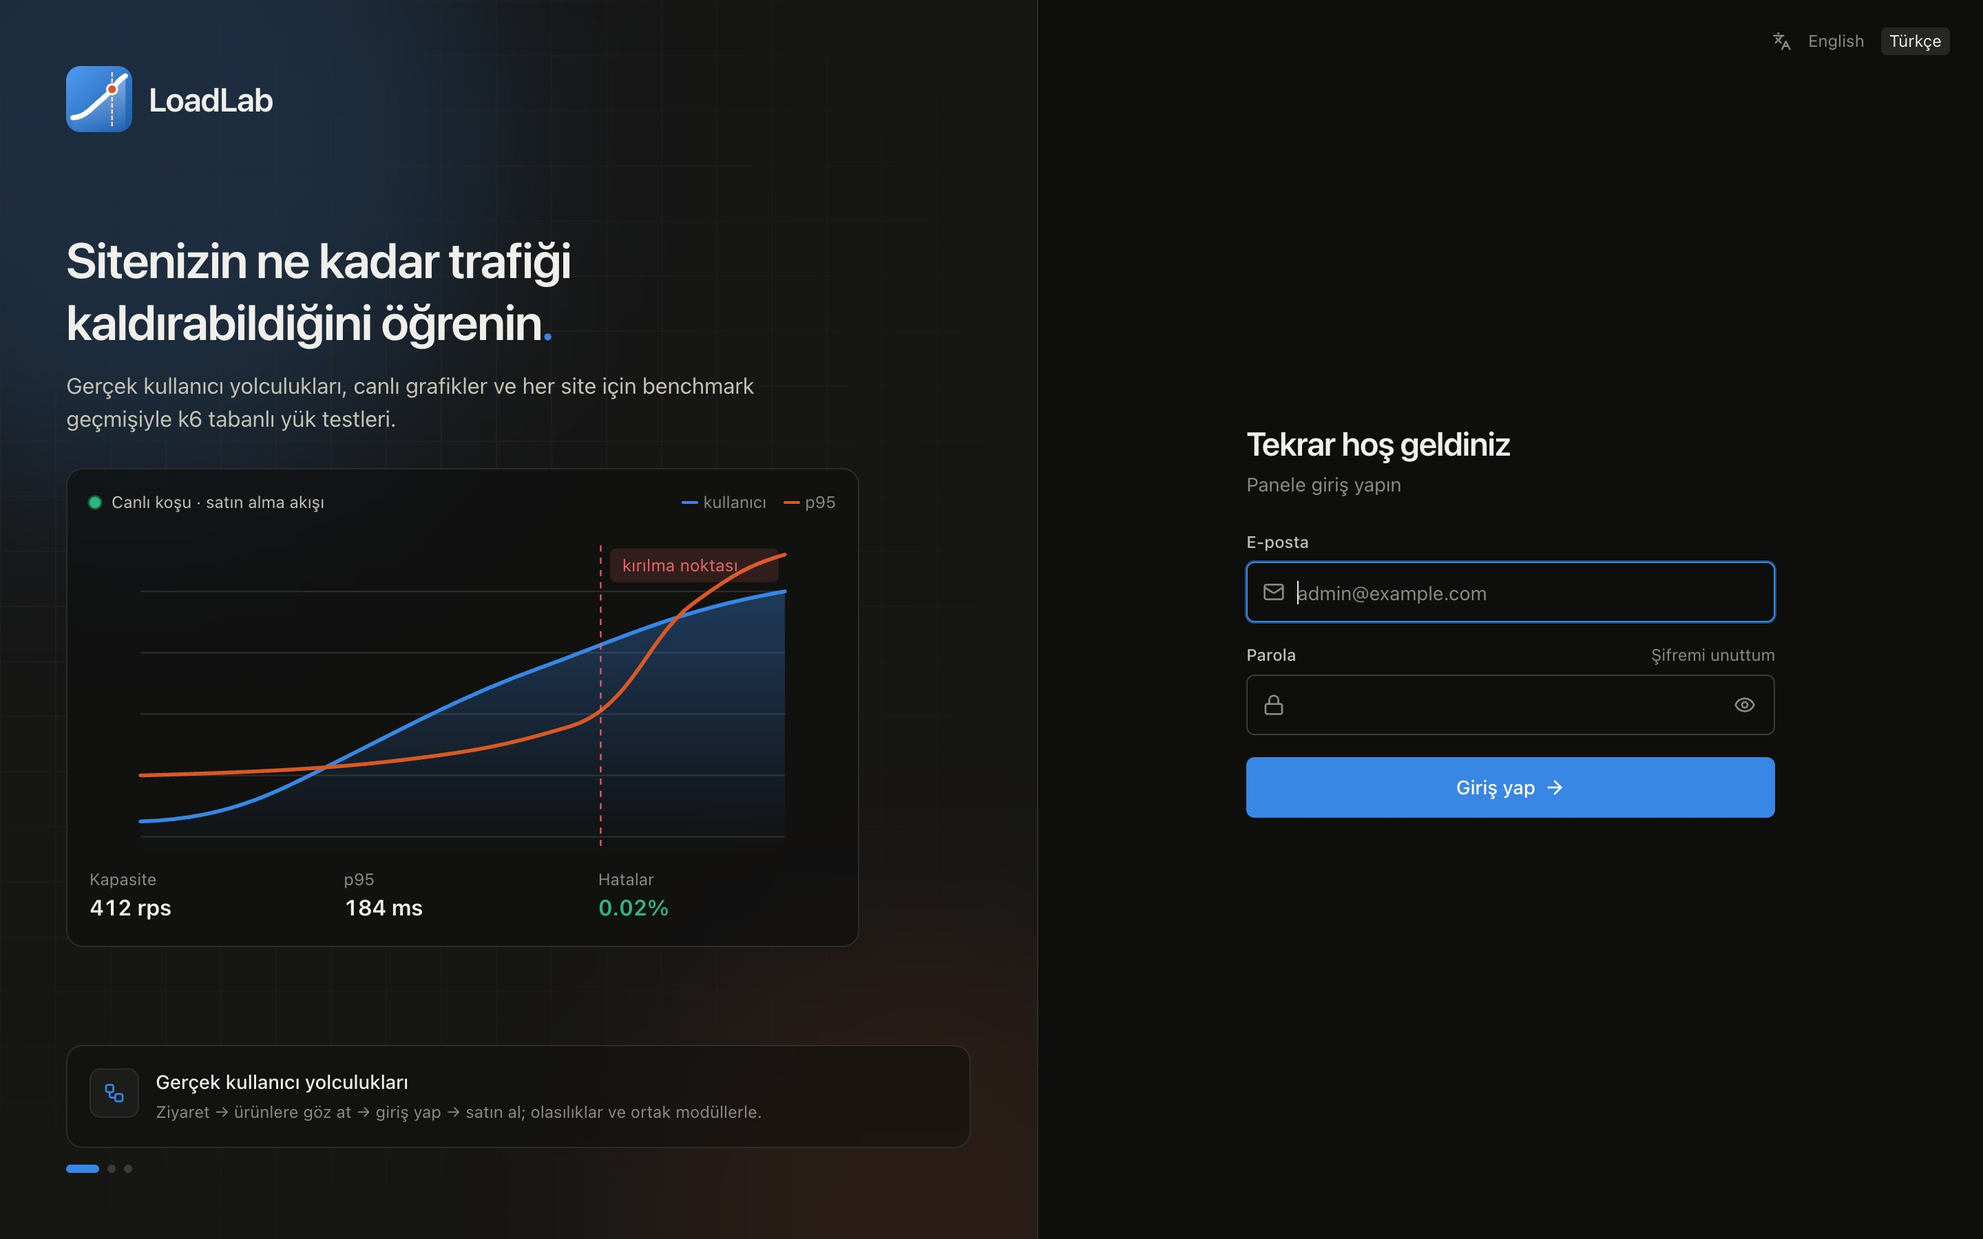
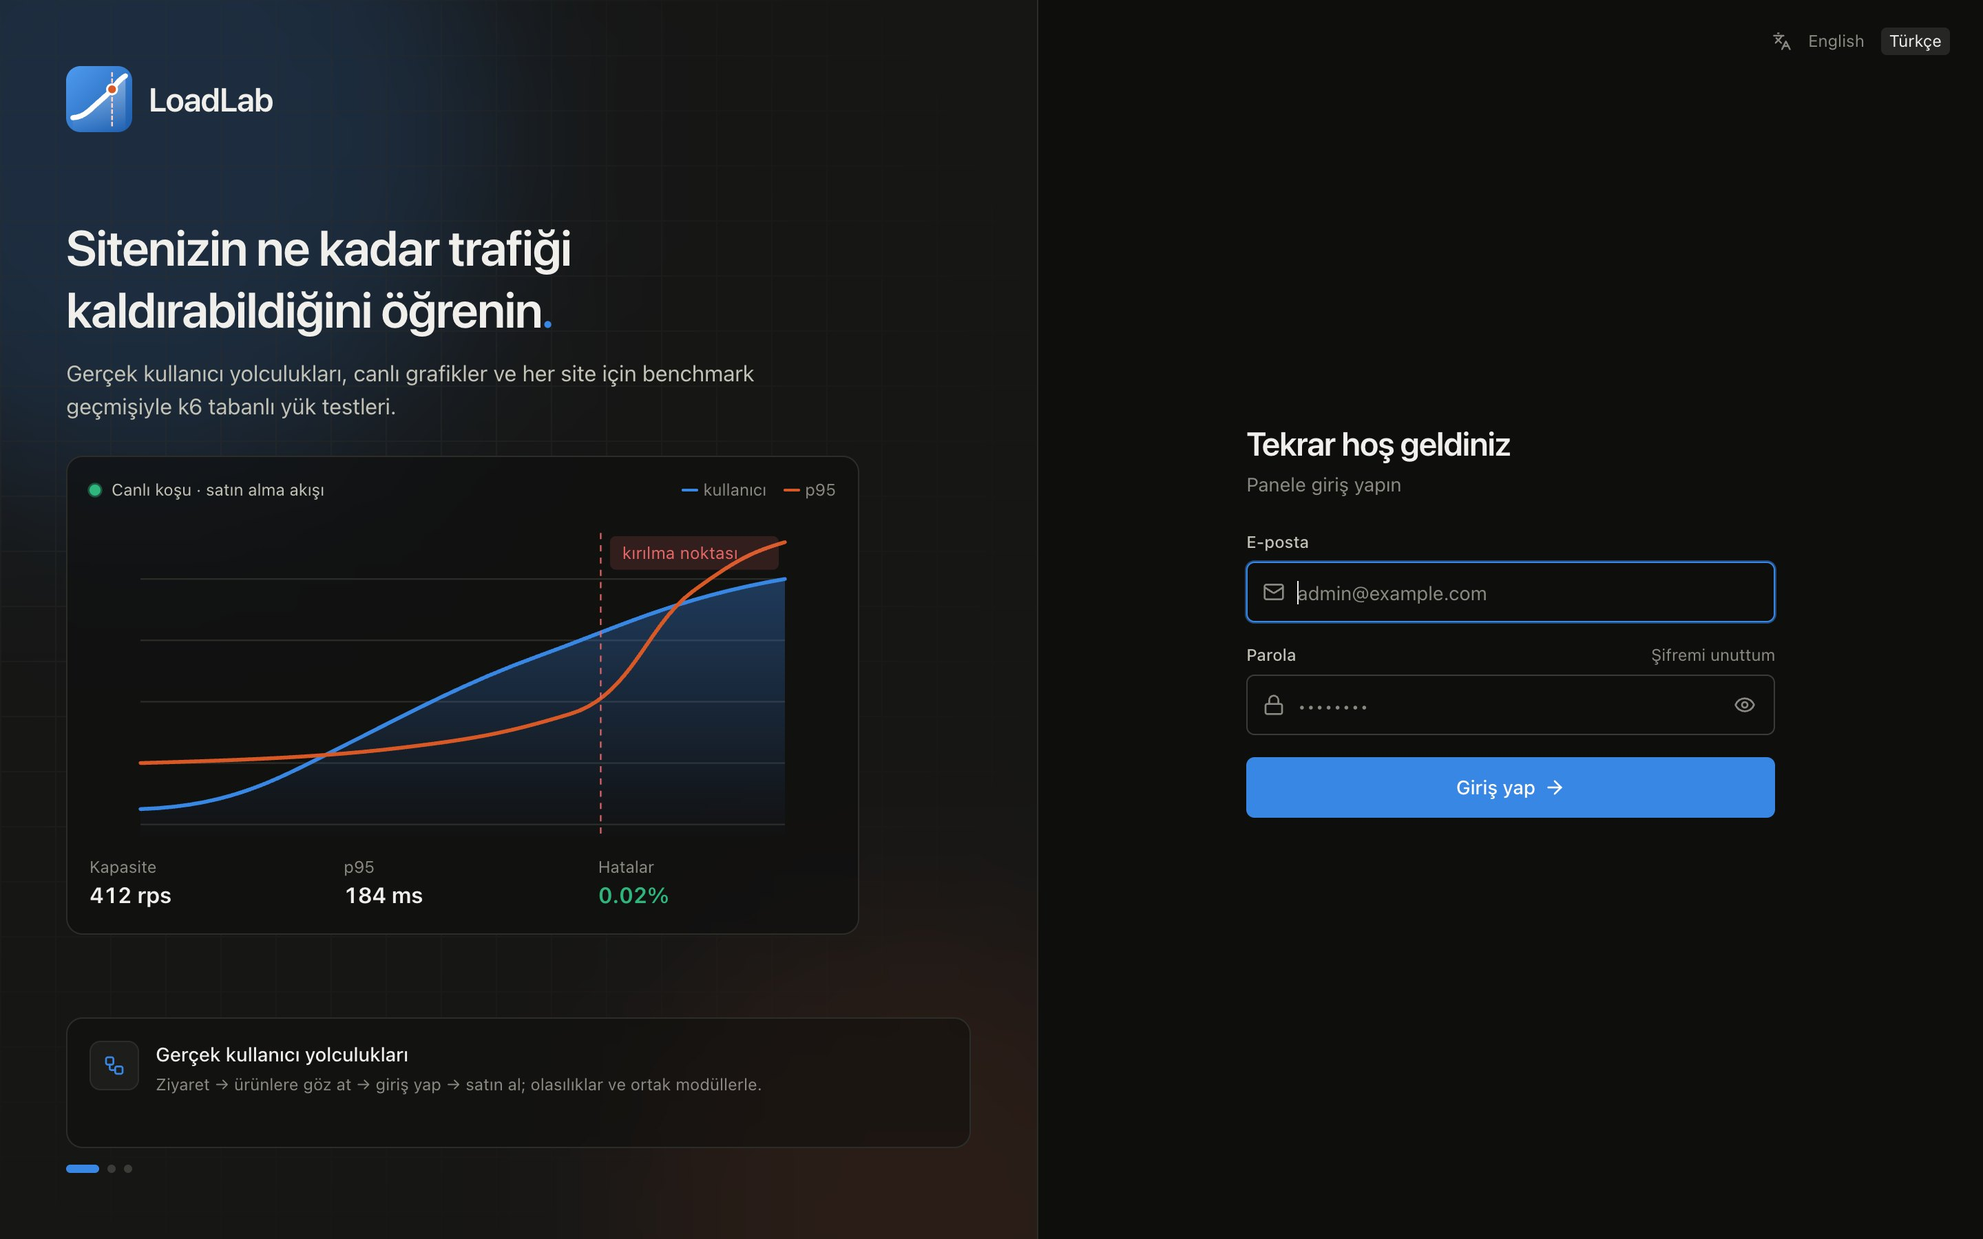
Present MCP as open to any AI agent, add password placeholder
- README, README.tr, login and settings now describe the MCP server as
  working with any MCP client (Claude, Gemini, ChatGPT, Cursor, ...),
  not only Claude.
- Settings shows copy-ready setup for Claude Code, Gemini CLI, generic
  JSON clients and URL-only clients (?token=).
- Password fields show a dotted placeholder; the active-session list
  scrolls instead of growing the page.
- Refresh login and settings screenshots.

diff --git a/web/src/pages/Settings.tsx b/web/src/pages/Settings.tsx
@@ -3,7 +3,7 @@ import { Copy, KeyRound, Plus, Trash2 } from 'lucide-react';
 import type { Me } from '../App';
 import { api, errorText } from '../lib/api';
 import { fmtAgo } from '../lib/format';
-import { t } from '../lib/i18n';
+import { msg, t } from '../lib/i18n';
 import { Alert, Badge, Button, Card, Field, Input, PageHeader, useLoad, useToast } from '../components/ui';
 import { AccountSecurity, UsersCard } from '../components/Security';
 
@@ -22,6 +22,43 @@ function CodeBlock({ code }: { code: string }) {
       >
         <Copy className="size-3.5" />
       </button>
+    </div>
+  );
+}
+
+const CLIENTS = [
+  { key: 'claude', label: 'Claude Code' },
+  { key: 'gemini', label: 'Gemini CLI' },
+  { key: 'json', label: msg('Other clients (JSON)') },
+  { key: 'url', label: msg('URL only') },
+] as const;
+
+/** Copy-ready setup for common MCP clients. */
+function ClientSetup({ mcpUrl, tok }: { mcpUrl: string; tok: string }) {
+  const [client, setClient] = useState<(typeof CLIENTS)[number]['key']>('claude');
+  const header = `Authorization: Bearer ${tok}`;
+  const code = {
+    claude: `claude mcp add --transport http loadlab ${mcpUrl} --header "${header}"`,
+    gemini: `gemini mcp add --transport http loadlab ${mcpUrl} --header "${header}"`,
+    json: JSON.stringify({ mcpServers: { loadlab: { type: 'http', url: mcpUrl, headers: { Authorization: `Bearer ${tok}` } } } }, null, 2),
+    url: `${mcpUrl}?token=${tok}`,
+  }[client];
+  return (
+    <div>
+      <div className="mb-2 flex flex-wrap gap-1">
+        {CLIENTS.map((c) => (
+          <button
+            key={c.key}
+            onClick={() => setClient(c.key)}
+            className={`rounded-md px-2.5 py-1 text-xs transition-colors ${client === c.key ? 'bg-surface-3 text-ink' : 'text-ink-3 hover:bg-surface-2 hover:text-ink'}`}
+          >
+            {t(c.label)}
+          </button>
+        ))}
+      </div>
+      <CodeBlock code={code} />
+      {client === 'json' && <p className="mt-1.5 text-xs text-ink-3">{t('For Cursor, VS Code, Windsurf and most other clients. Some use “serverUrl” or “httpUrl” instead of “url”.')}</p>}
+      {client === 'url' && <p className="mt-1.5 text-xs text-warn">{t('For clients that cannot send headers (e.g. ChatGPT connectors). The key is part of the URL, so keep it private.')}</p>}
     </div>
   );
 }
@@ -47,14 +84,14 @@ export default function SettingsPage({ me, onChange }: { me: Me; onChange: () =>
 
   return (
     <>
-      <PageHeader title={t('Settings & MCP')} subtitle={t('Account security, dashboard users and the Claude (MCP) connection')} />
+      <PageHeader title={t('Settings & MCP')} subtitle={t('Account security, dashboard users and the MCP connection for AI agents')} />
       <div className="grid gap-4 xl:grid-cols-2">
         <AccountSecurity me={me} onChange={onChange} />
         <UsersCard me={me} />
         <Card title={<span className="inline-flex items-center gap-2"><KeyRound className="size-4 text-accent" /> {t('API keys')}</span>}>
           <div className="space-y-4">
             <div className="flex gap-2">
-              <Input value={name} onChange={(e) => setName(e.target.value)} placeholder={t('Key name (e.g. Claude Desktop)')} />
+              <Input value={name} onChange={(e) => setName(e.target.value)} placeholder={t('Key name (e.g. Cursor, Gemini CLI)')} />
               <Button variant="primary" icon={<Plus className="size-4" />} onClick={create}>
                 {t('Create')}
               </Button>
@@ -94,16 +131,8 @@ export default function SettingsPage({ me, onChange }: { me: Me; onChange: () =>
             <Field label={t('Server URL (Streamable HTTP)')}>
               <CodeBlock code={mcpUrl} />
             </Field>
-            <div>
-              <div className="mb-1 text-xs font-medium text-ink-2">Claude Code</div>
-              <CodeBlock code={`claude mcp add --transport http loadlab ${mcpUrl} --header "Authorization: Bearer ${tok}"`} />
-            </div>
-            <div>
-              <div className="mb-1 text-xs font-medium text-ink-2">{t('Claude Desktop / other clients (JSON)')}</div>
-              <CodeBlock
-                code={JSON.stringify({ mcpServers: { loadlab: { type: 'http', url: mcpUrl, headers: { Authorization: `Bearer ${tok}` } } } }, null, 2)}
-              />
-            </div>
+            <p className="text-xs text-ink-3">{t('Works with any MCP client that supports Streamable HTTP: Claude, Gemini, ChatGPT, Cursor, VS Code, Windsurf and others.')}</p>
+            <ClientSetup mcpUrl={mcpUrl} tok={tok} />
             <div className="flex items-center gap-2 text-xs text-ink-3">
               {t('Starting tests over MCP:')}
               {me.mcpAllowRun ? <Badge tone="warn">{t('on (MCP_ALLOW_RUN=true)')}</Badge> : <Badge tone="good">{t('off — drafts are started from the dashboard')}</Badge>}

diff --git a/web/src/locales/tr.ts b/web/src/locales/tr.ts
@@ -258,9 +258,7 @@ export const tr: Record<string, string> = {
   'Error': 'Hata',
   'Copy': 'Kopyala',
   'Copied': 'Kopyalandı',
-  'Account security, dashboard users and the Claude (MCP) connection': 'Hesap güvenliği, panel kullanıcıları ve Claude (MCP) bağlantısı',
   'API keys': 'API anahtarları',
-  'Key name (e.g. Claude Desktop)': 'Anahtar adı (örn. Claude Desktop)',
   'Create': 'Oluştur',
   'Key created — it is shown only once': 'Anahtar oluşturuldu — yalnızca bir kez gösterilir',
   'last used {ago}': 'son kullanım {ago}',
@@ -269,7 +267,6 @@ export const tr: Record<string, string> = {
   'No keys yet.': 'Henüz anahtar yok.',
   'MCP connection': 'MCP bağlantısı',
   'Server URL (Streamable HTTP)': 'Sunucu URL’si (Streamable HTTP)',
-  'Claude Desktop / other clients (JSON)': 'Claude Desktop / diğer istemciler (JSON)',
   'Starting tests over MCP:': 'MCP üzerinden test başlatma:',
   'on (MCP_ALLOW_RUN=true)': 'açık (MCP_ALLOW_RUN=true)',
   'off — drafts are started from the dashboard': 'kapalı — taslaklar panelden başlatılır',
@@ -338,7 +335,6 @@ export const tr: Record<string, string> = {
   'All sites': 'Tüm siteler',
   'All statuses': 'Tüm durumlar',
   'No workflows': 'Workflow yok',
-  'Start from a template, import a HAR file, or ask Claude over MCP to “draft a checkout flow for my site”.': 'Bir şablondan başlayın, HAR dosyası içe aktarın ya da MCP üzerinden Claude’dan “sitem için bir satın alma akışı taslağı hazırla” isteyin.',
   'Version': 'Sürüm',
   'Updated': 'Güncellendi',
   'Shared module': 'Ortak modül',
@@ -354,8 +350,6 @@ export const tr: Record<string, string> = {
   'Visit → browse products → sign in → buy, with probabilities and shared modules.': 'Ziyaret → ürünlere göz at → giriş yap → satın al; olasılıklar ve ortak modüllerle.',
   'Find your breaking point': 'Kırılma noktanızı bulun',
   'Ramp until p95 or errors cross your limit and get the healthy capacity.': 'p95 veya hatalar sınırınızı aşana kadar yükü artırın ve sağlıklı kapasiteyi öğrenin.',
-  'Built for Claude (MCP)': 'Claude (MCP) için tasarlandı',
-  'Let the agent draft workflows and tests; you review and press start.': 'Workflow ve test taslaklarını ajan hazırlasın; siz inceleyip başlatın.',
   'Know how much traffic your site can take': 'Sitenizin ne kadar trafiği kaldırabildiğini öğrenin',
   'k6-powered load tests with real user journeys, live charts and a benchmark history for every site.': 'Gerçek kullanıcı yolculukları, canlı grafikler ve her site için benchmark geçmişiyle k6 tabanlı yük testleri.',
   'Live run · checkout flow': 'Canlı koşu · satın alma akışı',
@@ -639,4 +633,14 @@ export const tr: Record<string, string> = {
   'Hide password': 'Şifreyi gizle',
   'drafts: {n}': 'taslak: {n}',
   'CPU {v}%': 'CPU %{v}',
+  'Account security, dashboard users and the MCP connection for AI agents': 'Hesap güvenliği, panel kullanıcıları ve yapay zekâ ajanları için MCP bağlantısı',
+  'Key name (e.g. Cursor, Gemini CLI)': 'Anahtar adı (örn. Cursor, Gemini CLI)',
+  'Built for AI agents (MCP)': 'Yapay zekâ ajanları için (MCP)',
+  'Claude, Gemini, ChatGPT or any MCP client drafts workflows and tests; you review and press start.': 'Claude, Gemini, ChatGPT ya da herhangi bir MCP istemcisi workflow ve test taslağı hazırlar; siz inceleyip başlatırsınız.',
+  'Start from a template, import a HAR file, or ask an AI agent over MCP to “draft a checkout flow for my site”.': 'Bir şablondan başlayın, HAR dosyası içe aktarın ya da MCP üzerinden bir yapay zekâ ajanından “sitem için bir satın alma akışı taslağı hazırla” isteyin.',
+  'Works with any MCP client that supports Streamable HTTP: Claude, Gemini, ChatGPT, Cursor, VS Code, Windsurf and others.': 'Streamable HTTP destekleyen her MCP istemcisiyle çalışır: Claude, Gemini, ChatGPT, Cursor, VS Code, Windsurf ve diğerleri.',
+  'Other clients (JSON)': 'Diğer istemciler (JSON)',
+  'URL only': 'Yalnızca URL',
+  'For Cursor, VS Code, Windsurf and most other clients. Some use “serverUrl” or “httpUrl” instead of “url”.': 'Cursor, VS Code, Windsurf ve diğer istemcilerin çoğu için. Bazıları “url” yerine “serverUrl” ya da “httpUrl” kullanır.',
+  'For clients that cannot send headers (e.g. ChatGPT connectors). The key is part of the URL, so keep it private.': 'Header gönderemeyen istemciler için (örn. ChatGPT bağlayıcıları). Anahtar adresin içinde olduğundan adresi gizli tutun.',
 };

diff --git a/web/src/pages/Login.tsx b/web/src/pages/Login.tsx
@@ -37,7 +37,7 @@ function HeroChart() {
 const FEATURES = [
   { icon: Workflow, title: msg('Real user journeys'), desc: msg('Visit → browse products → sign in → buy, with probabilities and shared modules.') },
   { icon: Zap, title: msg('Find your breaking point'), desc: msg('Ramp until p95 or errors cross your limit and get the healthy capacity.') },
-  { icon: Bot, title: msg('Built for Claude (MCP)'), desc: msg('Let the agent draft workflows and tests; you review and press start.') },
+  { icon: Bot, title: msg('Built for AI agents (MCP)'), desc: msg('Claude, Gemini, ChatGPT or any MCP client drafts workflows and tests; you review and press start.') },
 ];
 
 /** One feature at a time, sliding every few seconds; pauses on hover, dots to jump. */
@@ -251,7 +251,7 @@ export default function LoginPage({ onLogin }: { onLogin: () => void }) {
                   </span>
                   <div className="relative">
                     <Lock className="pointer-events-none absolute top-1/2 left-3 z-10 size-4 -translate-y-1/2 text-ink-3" aria-hidden />
-                    <PasswordInput autoComplete="current-password" className="h-11 pl-9" value={password} onChange={(e) => setPassword(e.target.value)} />
+                    <PasswordInput autoComplete="current-password" className="h-11 pl-9" placeholder="••••••••" value={password} onChange={(e) => setPassword(e.target.value)} />
                   </div>
                 </label>
               </>

diff --git a/web/src/pages/ResetPassword.tsx b/web/src/pages/ResetPassword.tsx
@@ -69,7 +69,7 @@ export default function ResetPasswordPage() {
                 <span className="mb-1.5 block text-xs font-medium text-ink-2">{f.label}</span>
                 <div className="relative">
                   <Lock className="pointer-events-none absolute top-1/2 left-3 z-10 size-4 -translate-y-1/2 text-ink-3" aria-hidden />
-                  <PasswordInput autoComplete="new-password" className="h-11 pl-9" value={f.v} onChange={(e) => f.set(e.target.value)} />
+                  <PasswordInput autoComplete="new-password" className="h-11 pl-9" placeholder="••••••••" value={f.v} onChange={(e) => f.set(e.target.value)} />
                 </div>
               </label>
             ))}

diff --git a/web/src/components/Security.tsx b/web/src/components/Security.tsx
@@ -118,7 +118,7 @@ export function AccountSecurity({ me, onChange }: { me: Me; onChange: () => void
               {t('Sign out others')}
             </Button>
           </div>
-          <ul className="divide-y divide-line/60 rounded-md border border-line text-xs">
+          <ul className="max-h-64 divide-y divide-line/60 overflow-y-auto rounded-md border border-line text-xs">
             {(sessions.data ?? []).map((s: any) => (
               <li key={s.id} className="flex items-center gap-3 px-3 py-2">
                 <div className="min-w-0 flex-1">

diff --git a/web/src/pages/Workflows.tsx b/web/src/pages/Workflows.tsx
@@ -55,7 +55,7 @@ export default function WorkflowsPage() {
           <Loading />
         ) : !data?.length ? (
           <Empty icon={<Workflow className="size-7" />} title={t('No workflows')}>
-            {t('Start from a template, import a HAR file, or ask Claude over MCP to “draft a checkout flow for my site”.')}
+            {t('Start from a template, import a HAR file, or ask an AI agent over MCP to “draft a checkout flow for my site”.')}
           </Empty>
         ) : (
           <table className="w-full text-sm">

diff --git a/README.md b/README.md
@@ -7,7 +7,7 @@
 # LoadLab
 
 **Know how much traffic your site can take.**<br>
-A self-hosted load-testing platform built on [k6](https://github.com/grafana/k6): model real user journeys, run them at any scale, watch results live and keep a performance history for every site. It also lets Claude draft tests for you over MCP.
+A self-hosted load-testing platform built on [k6](https://github.com/grafana/k6): model real user journeys, run them at any scale, watch results live and keep a performance history for every site. AI agents can also draft and analyse tests for you over MCP.
 
 [![CI](https://github.com/sharkpaw/LoadLab/actions/workflows/ci.yml/badge.svg)](https://github.com/sharkpaw/LoadLab/actions/workflows/ci.yml)
 [![Release](https://img.shields.io/github/v/release/sharkpaw/LoadLab?label=release&color=2fbf8f)](https://github.com/sharkpaw/LoadLab/releases)
@@ -15,7 +15,7 @@ A self-hosted load-testing platform built on [k6](https://github.com/grafana/k6)
 ![k6](https://img.shields.io/badge/powered%20by-k6-7d64ff)
 ![Docker](https://img.shields.io/badge/deploy-Docker%20Compose%20%7C%20Coolify-2496ed)
 
-[Features](#features) · [Screenshots](#screenshots) · [Quick start](#quick-start) · [Deploy on Coolify](#deploy-on-coolify) · [MCP](#use-it-with-claude-mcp) · [Contributing](#contributing)
+[Features](#features) · [Screenshots](#screenshots) · [Quick start](#quick-start) · [Deploy on Coolify](#deploy-on-coolify) · [MCP](#use-it-with-ai-agents-mcp) · [Contributing](#contributing)
 
 <img src="docs/images/run-en.jpg" alt="A live load test in LoadLab" width="900">
 
@@ -31,7 +31,7 @@ k6 is a great engine, but a script per test and a terminal full of numbers don't
 - 📈 **Live results you can act on.** Watch users, requests/s, p50/p95/p99 and errors second by second. You can stop or force-stop any test.
 - 💥 **Find the breaking point.** A breakpoint test keeps raising the load and stops itself when p95 or the error rate crosses your limit. It then reports the highest healthy throughput.
 - 🗂 **A benchmark history per site.** Compare runs, mark a baseline and track p95 and capacity over time to catch regressions.
-- 🤖 **Built for Claude (MCP).** An agent can inspect your site, draft workflows and test plans, debug them and read the results. You review the draft and press **Start**.
+- 🤖 **Built for AI agents (MCP).** Claude, Gemini, ChatGPT, Cursor or any other MCP client can inspect your site, draft workflows and test plans, debug them and read the results. You review the draft and press **Start**.
 - 🔒 **Secure by default.** Better Auth with 2FA, rate-limited sign-in, no public sign-up, and tests that can only reach the hosts you registered.
 - 🧮 **Know your own footprint.** See LoadLab's CPU, memory, database and disk usage, with a warning when the load generator, not your site, is the bottleneck.
 - 🌐 **Multilingual dashboard:** English and Turkish, switchable at any time.
@@ -116,13 +116,18 @@ Open <http://localhost:8080> and sign in as `admin@example.com` (or your `ADMIN_
 
 Prebuilt multi-arch images are published to `ghcr.io/sharkpaw/loadlab` for every release.
 
-## Use it with Claude (MCP)
+## Use it with AI agents (MCP)
 
-Create an API key under **Settings & MCP**, then:
+LoadLab speaks the open [Model Context Protocol](https://modelcontextprotocol.io), so it works with any MCP client that supports Streamable HTTP: Claude, Gemini CLI, ChatGPT, Cursor, VS Code, Windsurf and others. Create an API key under **Settings & MCP**, then add the server:
 
 ```bash
+# Claude Code
 claude mcp add --transport http loadlab https://loadlab.example.com/mcp --header "Authorization: Bearer ll_..."
+# Gemini CLI
+gemini mcp add --transport http loadlab https://loadlab.example.com/mcp --header "Authorization: Bearer ll_..."
 ```
+
+Most other clients take a JSON entry with `url` and an `Authorization` header (the dashboard shows it ready to copy). Clients that cannot send headers can use `https://loadlab.example.com/mcp?token=ll_...`. Keep that URL private, because the key is part of it.
 
 LoadLab exposes 25 tools: inspect a page, create, update or debug workflows, draft test plans, read run results and time series, compare runs, view site benchmarks and check system status. Everything an agent creates arrives as a **draft** under *Drafts awaiting review*. Letting MCP start tests directly requires `MCP_ALLOW_RUN=true`, which is off by default.
 
@@ -135,7 +140,7 @@ Example prompts:
 
 ```
  Browser ─────▶ api (Bun + Fastify) ─ dashboard · REST · SSE · /mcp · Better Auth
- Claude (MCP) ─▶     │ queue: Postgres (SKIP LOCKED) + Redis wake-up
+ AI agent (MCP) ▶   │ queue: Postgres (SKIP LOCKED) + Redis wake-up
                      ▼
                worker ×N (Bun) ── k6 + runner.js ─────────▶ your site
                      │ k6 JSON output (FIFO) → per-second buckets, per-step histograms
@@ -213,7 +218,7 @@ Project layout and conventions: [AGENTS.md](AGENTS.md).
 | ✅ | Visual workflow editor, shared modules, HAR import, debug runs |
 | ✅ | Load profiles including breakpoint / capacity detection |
 | ✅ | Live charts, stop / force stop, run comparison, site benchmarks |
-| ✅ | MCP server for drafting and analysing tests with Claude |
+| ✅ | MCP server for drafting and analysing tests with any AI agent |
 | ✅ | Better Auth with 2FA, password reset (SMTP or log) and an admin CLI |
 | ✅ | English and Turkish UI |
 | ✅ | Coolify-ready compose, multi-arch images, CI with end-to-end tests |
